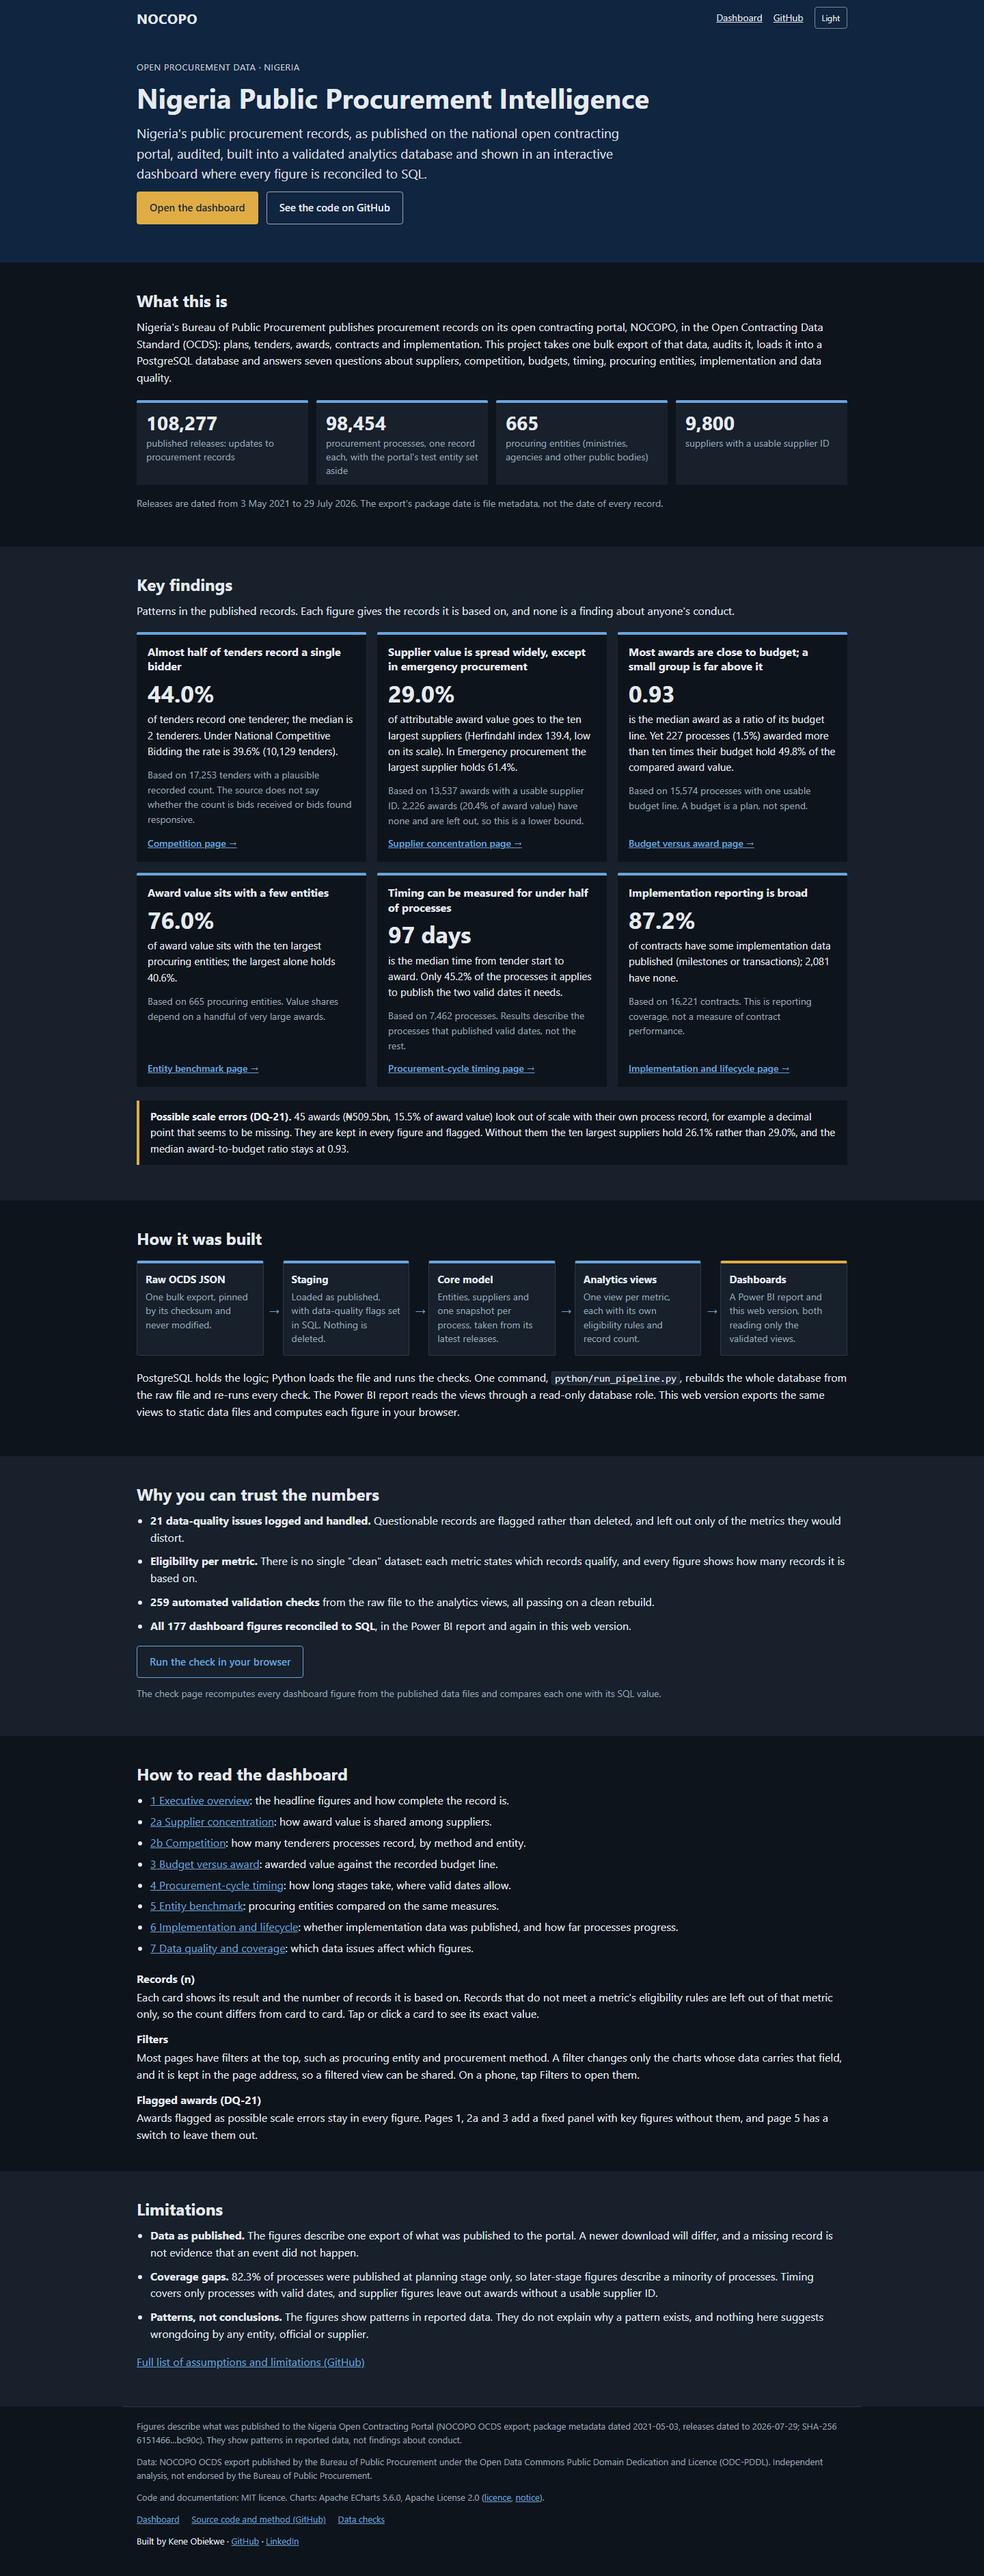
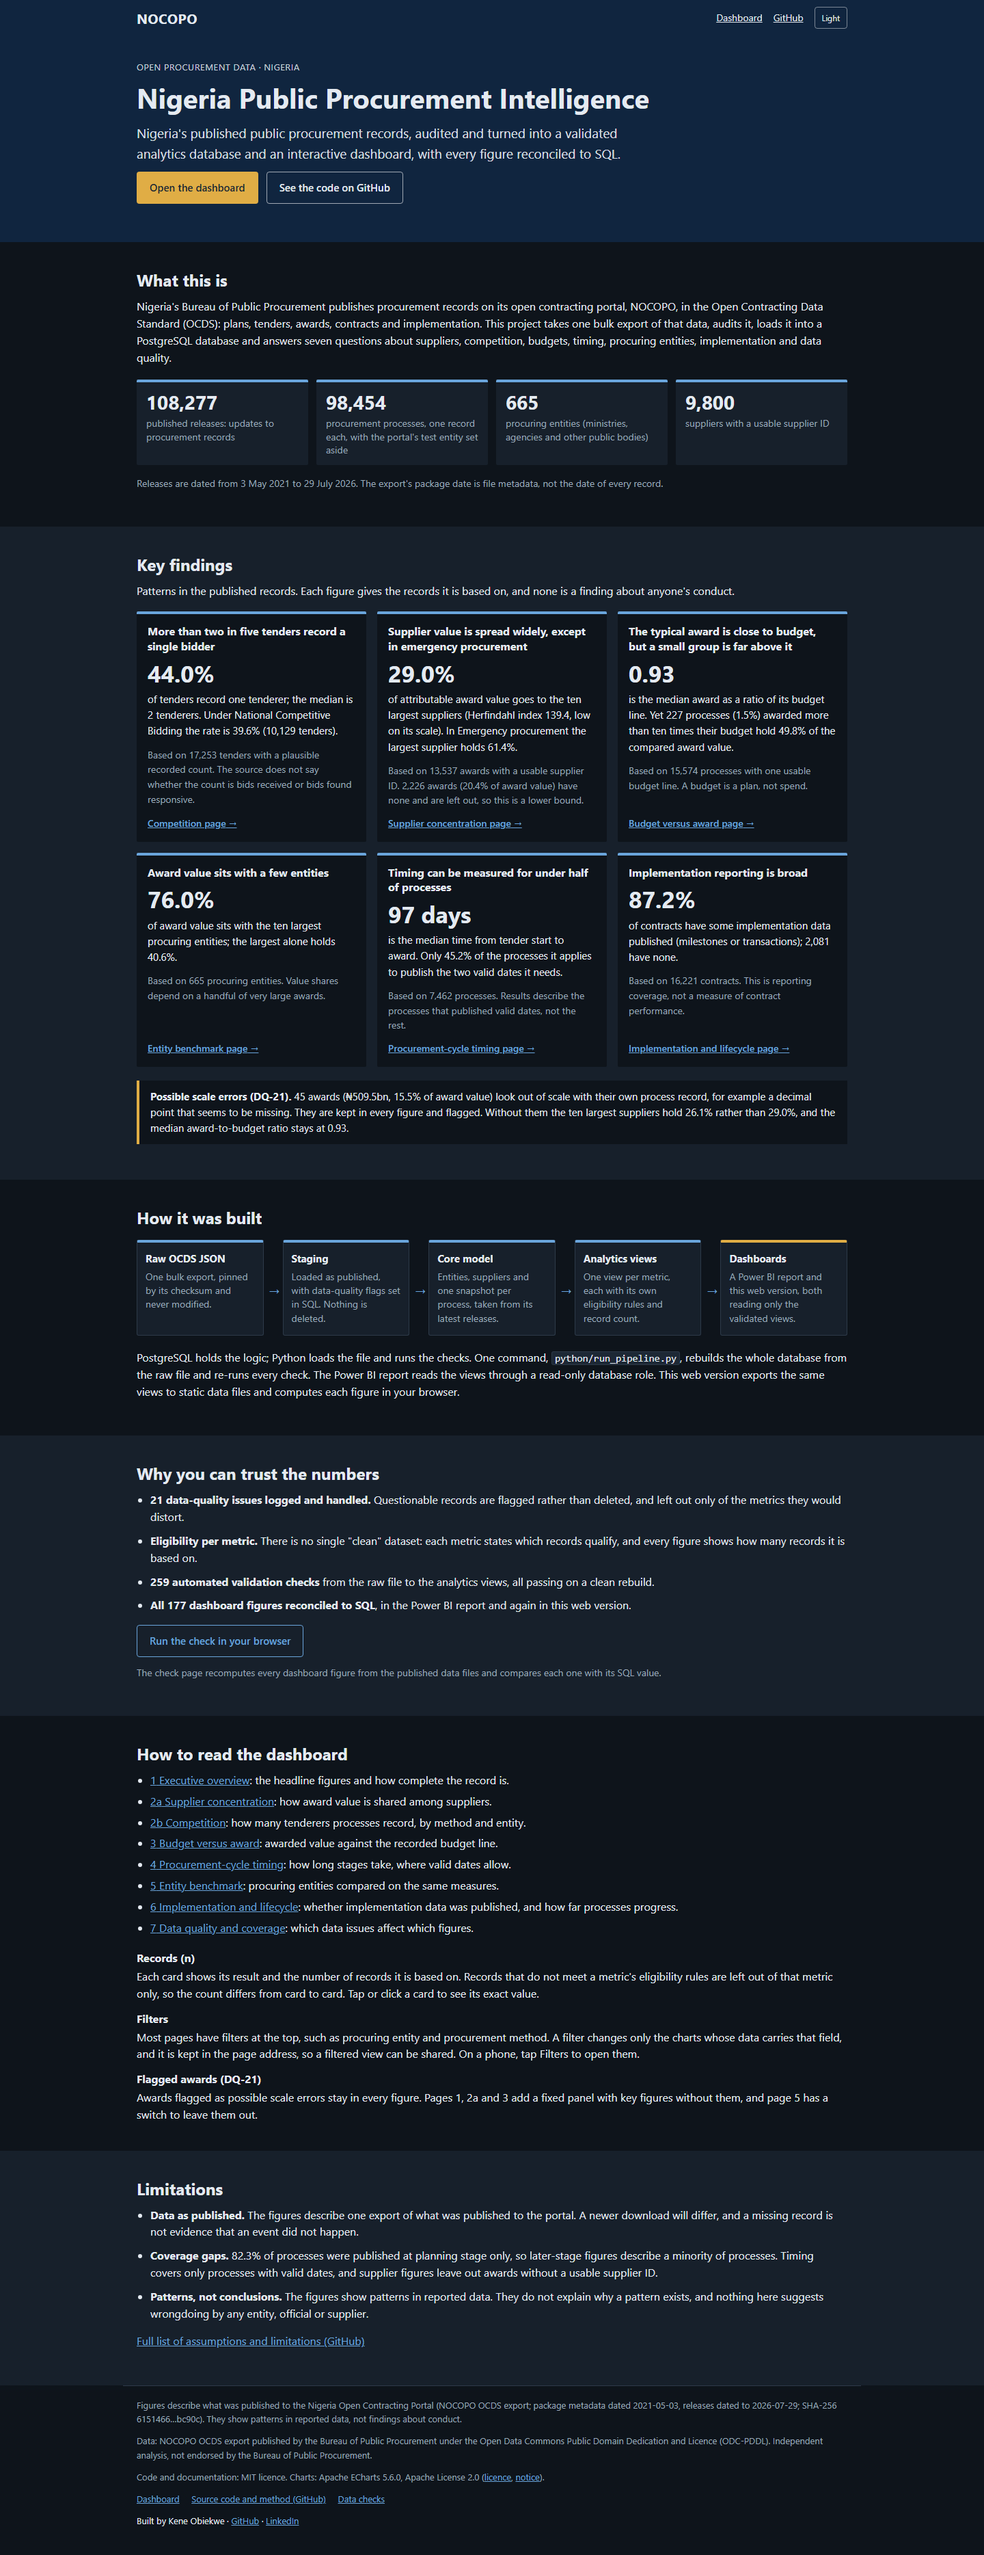
docs: reword two finding headlines (W-1, W-2), landing hero (W-3), LinkedIn link
- Findings 2 and 3 headlines now match the figures beneath them, in
  findings.md section 1, the README and the landing page: "More than two in
  five tenders record a single bidder" and "The typical award is close to
  budget, but a small group is far above it". Recorded as findings v1.2
  (wording only; no figure, tag or population changed).
- Landing hero sentence shortened; credit line links the LinkedIn profile.
- Landing screenshots retaken; check reports regenerated (177/177, 277/277,
  wording 0, landing figures 45/45, trace check 0 failures).

Changed region(s): [[0.125, 0.2173, 0.8438, 0.9625], [0.0, 0.031, 1.0, 0.1863], [0.75, 0.8694, 0.8125, 0.9004]]

diff --git a/web/index.html b/web/index.html
@@ -50,9 +50,8 @@
     <div class="wrap">
       <p class="eyebrow">Open procurement data · Nigeria</p>
       <h1>Nigeria Public Procurement Intelligence</h1>
-      <p class="lead">Nigeria's public procurement records, as published on the national open contracting portal, audited,
-        built into a validated analytics database and shown in an interactive dashboard where every figure is reconciled
-        to SQL.</p>
+      <p class="lead">Nigeria's published public procurement records, audited and turned into a validated analytics
+        database and an interactive dashboard, with every figure reconciled to SQL.</p>
       <p class="actions">
         <a class="button primary" href="dashboard.html">Open the dashboard</a>
         <a class="button secondary" href="https://github.com/kene-obiekwe/nigeria-public-procurement-intelligence" rel="noopener">See the code on GitHub</a>
@@ -90,7 +89,7 @@
         anyone's conduct.</p>
       <div class="findings">
         <article class="finding">
-          <h3>Almost half of tenders record a single bidder</h3>
+          <h3>More than two in five tenders record a single bidder</h3>
           <p class="big"><span data-fig="EXE-05" data-format="pct1">44.0%</span></p>
           <p>of tenders record one tenderer; the median is <span data-fig="EXE-06" data-format="count">2</span>
             tenderers. Under National Competitive Bidding the rate is <span data-claim="C3">39.6%</span>
@@ -112,7 +111,7 @@
           <a class="more" href="dashboard.html#suppliers">Supplier concentration page</a>
         </article>
         <article class="finding">
-          <h3>Most awards are close to budget; a small group is far above it</h3>
+          <h3>The typical award is close to budget, but a small group is far above it</h3>
           <p class="big"><span data-fig="EXE-09" data-format="ratio2">0.93</span></p>
           <p>is the median award as a ratio of its budget line. Yet <span data-fig="BVA-B6" data-format="count">227</span>
             processes (<span data-claim="B3">1.5%</span>) awarded more than ten times their budget hold
@@ -257,7 +256,7 @@
   </p>
   <p class="credit">Built by Kene Obiekwe ·
     <a href="https://github.com/kene-obiekwe" rel="noopener">GitHub</a> ·
-    <a href="LINKEDIN_URL" rel="noopener">LinkedIn</a></p>
+    <a href="https://www.linkedin.com/in/kene-obiekwe10" rel="noopener">LinkedIn</a></p>
 </footer>
 </body>
 </html>

diff --git a/docs/phase13_web_dashboard/web_reconciliation_results.md b/docs/phase13_web_dashboard/web_reconciliation_results.md
@@ -1,7 +1,7 @@
 # Web Dashboard Reconciliation Results
 # Nigeria Public Procurement Intelligence
 
-> **Generated:** 2026-10-31 16:00 by `python/web/check_web_data.py` (role `nocopo_bi`, read-only)  
+> **Generated:** 2026-10-31 16:07 by `python/web/check_web_data.py` (role `nocopo_bi`, read-only)  
 > **Data:** `web/data/` exported 2026-10-22T10:48:41Z by role `nocopo_bi` from `nocopo_db` (PostgreSQL 17.4); source SHA-256 `6151466…bc90c`  
 > **Result:** PASS: manifest verified; reconciliation 177/177 PASS; DQ-21 sensitivity 277/277 cells PASS; wording 0 finding(s); landing figures 45/45 PASS, 0 failure(s); routes PASS
 
@@ -561,53 +561,53 @@ Every figure on `web/index.html` and on `python/web/og_card.html` (drawn into `w
 
 | Where | Figure as written | Source | Source figure | Result |
 |---|---|---|---|---|
-| `web/index.html`:71 | 108,277 | source_verification.md §D, releases | 108,277 | PASS |
-| `web/index.html`:73 | 98,454 | expected.json EXE-01, count | 98,454 | PASS |
-| `web/index.html`:75 | 665 | expected.json ENT-01, count | 665 | PASS |
-| `web/index.html`:77 | 9,800 | expected.json SUP-02, count | 9,800 | PASS |
-| `web/index.html`:80 | 3 May 2021 | source_verification.md §D, earliest release date | 3 May 2021 | PASS |
-| `web/index.html`:81 | 29 July 2026 | source_verification.md §D, latest release date | 29 July 2026 | PASS |
-| `web/index.html`:94 | 44.0% | expected.json EXE-05, pct1 | 44.0% | PASS |
-| `web/index.html`:95 | 2 | expected.json EXE-06, count | 2 | PASS |
-| `web/index.html`:96 | 39.6% | claim_trace.md [C3] | 39.6% | PASS |
-| `web/index.html`:97 | 10,129 | claim_trace.md [C3] | 10,129 | PASS |
-| `web/index.html`:98 | 17,253 | expected.json COM-01, count | 17,253 | PASS |
-| `web/index.html`:104 | 29.0% | expected.json EXE-07, pct1 | 29.0% | PASS |
-| `web/index.html`:106 | 139.4 | expected.json SUP-09, index1 | 139.4 | PASS |
-| `web/index.html`:107 | 61.4% | claim_trace.md [S4] | 61.4% | PASS |
-| `web/index.html`:108 | 13,537 | expected.json SUP-01, count | 13,537 | PASS |
-| `web/index.html`:109 | 2,226 | expected.json SUP-11, count | 2,226 | PASS |
-| `web/index.html`:110 | 20.4% | expected.json SUP-13, pct1 | 20.4% | PASS |
-| `web/index.html`:116 | 0.93 | expected.json EXE-09, ratio2 | 0.93 | PASS |
-| `web/index.html`:117 | 227 | expected.json BVA-B6, count | 227 | PASS |
-| `web/index.html`:118 | 1.5% | claim_trace.md [B3] | 1.5% | PASS |
-| `web/index.html`:119 | 49.8% | claim_trace.md [B3] | 49.8% | PASS |
-| `web/index.html`:120 | 15,574 | expected.json BVA-01, count | 15,574 | PASS |
-| `web/index.html`:126 | 76.0% | expected.json ENT-06, pct1 | 76.0% | PASS |
-| `web/index.html`:128 | 40.6% | expected.json ENT-05, pct1 | 40.6% | PASS |
-| `web/index.html`:129 | 665 | expected.json ENT-01, count | 665 | PASS |
-| `web/index.html`:135 | 97 | expected.json EXE-11, days | 97 | PASS |
-| `web/index.html`:137 | 45.2% | expected.json TIM-11, pct1 | 45.2% | PASS |
-| `web/index.html`:139 | 7,462 | expected.json TIM-02, count | 7,462 | PASS |
-| `web/index.html`:145 | 87.2% | expected.json EXE-12, pct1 | 87.2% | PASS |
-| `web/index.html`:147 | 2,081 | expected.json IMP-T4, count | 2,081 | PASS |
-| `web/index.html`:148 | 16,221 | expected.json IMP-01, count | 16,221 | PASS |
-| `web/index.html`:153 | 45 | claim_trace.md [X1] | 45 awards | PASS |
-| `web/index.html`:154 | ₦509.5bn | claim_trace.md [X1] | ₦509.5bn | PASS |
-| `web/index.html`:154 | 15.5% | claim_trace.md [X1] | 15.5% | PASS |
-| `web/index.html`:156 | 26.1% | claim_trace.md [S6] | 26.1% | PASS |
-| `web/index.html`:157 | 29.0% | expected.json EXE-07, pct1 | 29.0% | PASS |
-| `web/index.html`:158 | 0.93 | claim_trace.md [B8] | 0.93 | PASS |
-| `web/index.html`:183 | 21 | decision log, DQ-01 to DQ-21 | 21 | PASS |
-| `web/index.html`:187 | 259 | the six suite result logs, Phases 5 to 10.1, all passed | 259 | PASS |
-| `web/index.html`:189 | 177 | figures in expected.json (the reconciliation pack) | 177 | PASS |
-| `web/index.html`:236 | 82.3% | expected.json EXE-13, pct1 | 82.3% | PASS |
+| `web/index.html`:70 | 108,277 | source_verification.md §D, releases | 108,277 | PASS |
+| `web/index.html`:72 | 98,454 | expected.json EXE-01, count | 98,454 | PASS |
+| `web/index.html`:74 | 665 | expected.json ENT-01, count | 665 | PASS |
+| `web/index.html`:76 | 9,800 | expected.json SUP-02, count | 9,800 | PASS |
+| `web/index.html`:79 | 3 May 2021 | source_verification.md §D, earliest release date | 3 May 2021 | PASS |
+| `web/index.html`:80 | 29 July 2026 | source_verification.md §D, latest release date | 29 July 2026 | PASS |
+| `web/index.html`:93 | 44.0% | expected.json EXE-05, pct1 | 44.0% | PASS |
+| `web/index.html`:94 | 2 | expected.json EXE-06, count | 2 | PASS |
+| `web/index.html`:95 | 39.6% | claim_trace.md [C3] | 39.6% | PASS |
+| `web/index.html`:96 | 10,129 | claim_trace.md [C3] | 10,129 | PASS |
+| `web/index.html`:97 | 17,253 | expected.json COM-01, count | 17,253 | PASS |
+| `web/index.html`:103 | 29.0% | expected.json EXE-07, pct1 | 29.0% | PASS |
+| `web/index.html`:105 | 139.4 | expected.json SUP-09, index1 | 139.4 | PASS |
+| `web/index.html`:106 | 61.4% | claim_trace.md [S4] | 61.4% | PASS |
+| `web/index.html`:107 | 13,537 | expected.json SUP-01, count | 13,537 | PASS |
+| `web/index.html`:108 | 2,226 | expected.json SUP-11, count | 2,226 | PASS |
+| `web/index.html`:109 | 20.4% | expected.json SUP-13, pct1 | 20.4% | PASS |
+| `web/index.html`:115 | 0.93 | expected.json EXE-09, ratio2 | 0.93 | PASS |
+| `web/index.html`:116 | 227 | expected.json BVA-B6, count | 227 | PASS |
+| `web/index.html`:117 | 1.5% | claim_trace.md [B3] | 1.5% | PASS |
+| `web/index.html`:118 | 49.8% | claim_trace.md [B3] | 49.8% | PASS |
+| `web/index.html`:119 | 15,574 | expected.json BVA-01, count | 15,574 | PASS |
+| `web/index.html`:125 | 76.0% | expected.json ENT-06, pct1 | 76.0% | PASS |
+| `web/index.html`:127 | 40.6% | expected.json ENT-05, pct1 | 40.6% | PASS |
+| `web/index.html`:128 | 665 | expected.json ENT-01, count | 665 | PASS |
+| `web/index.html`:134 | 97 | expected.json EXE-11, days | 97 | PASS |
+| `web/index.html`:136 | 45.2% | expected.json TIM-11, pct1 | 45.2% | PASS |
+| `web/index.html`:138 | 7,462 | expected.json TIM-02, count | 7,462 | PASS |
+| `web/index.html`:144 | 87.2% | expected.json EXE-12, pct1 | 87.2% | PASS |
+| `web/index.html`:146 | 2,081 | expected.json IMP-T4, count | 2,081 | PASS |
+| `web/index.html`:147 | 16,221 | expected.json IMP-01, count | 16,221 | PASS |
+| `web/index.html`:152 | 45 | claim_trace.md [X1] | 45 awards | PASS |
+| `web/index.html`:153 | ₦509.5bn | claim_trace.md [X1] | ₦509.5bn | PASS |
+| `web/index.html`:153 | 15.5% | claim_trace.md [X1] | 15.5% | PASS |
+| `web/index.html`:155 | 26.1% | claim_trace.md [S6] | 26.1% | PASS |
+| `web/index.html`:156 | 29.0% | expected.json EXE-07, pct1 | 29.0% | PASS |
+| `web/index.html`:157 | 0.93 | claim_trace.md [B8] | 0.93 | PASS |
+| `web/index.html`:182 | 21 | decision log, DQ-01 to DQ-21 | 21 | PASS |
+| `web/index.html`:186 | 259 | the six suite result logs, Phases 5 to 10.1, all passed | 259 | PASS |
+| `web/index.html`:188 | 177 | figures in expected.json (the reconciliation pack) | 177 | PASS |
+| `web/index.html`:235 | 82.3% | expected.json EXE-13, pct1 | 82.3% | PASS |
 | `python/web/og_card.html`:36 | 98,454 | expected.json EXE-01, count | 98,454 | PASS |
 | `python/web/og_card.html`:37 | 44.0% | expected.json EXE-05, pct1 | 44.0% | PASS |
 | `python/web/og_card.html`:38 | 177 | figures in expected.json (the reconciliation pack) | 177 | PASS |
 | `python/web/og_card.html`:38 | 177 | figures in expected.json (the reconciliation pack) | 177 | PASS |
 
-Labels marked `data-nofig` (page numbers and versions, not figures): `web/index.html`:204 1; `web/index.html`:205 2a; `web/index.html`:206 2b; `web/index.html`:207 3; `web/index.html`:208 4; `web/index.html`:209 5; `web/index.html`:210 6; `web/index.html`:211 7; `web/index.html`:223 1; `web/index.html`:224 2a; `web/index.html`:224 3; `web/index.html`:225 5; `web/index.html`:251 5.6.0; `web/index.html`:251 2.0.
+Labels marked `data-nofig` (page numbers and versions, not figures): `web/index.html`:203 1; `web/index.html`:204 2a; `web/index.html`:205 2b; `web/index.html`:206 3; `web/index.html`:207 4; `web/index.html`:208 5; `web/index.html`:209 6; `web/index.html`:210 7; `web/index.html`:222 1; `web/index.html`:223 2a; `web/index.html`:223 3; `web/index.html`:224 5; `web/index.html`:250 5.6.0; `web/index.html`:250 2.0.
 
 Routes: `web/js/route.js` forwards 8 dashboard page IDs from the landing page to `dashboard.html` (`#overview`, `#suppliers`, `#competition`, `#budget`, `#timing`, `#entities`, `#implementation`, `#data-quality`); they equal `web/js/text.js` PAGES, and every `dashboard.html#…` link on the site names one of them.
 

diff --git a/docs/phase10_findings/findings.md b/docs/phase10_findings/findings.md
@@ -14,6 +14,8 @@
 > **Phase 10.1 (2026-10-17):** corrections C-12 (release dates) and C-13 / DQ-21 (possible award scale errors,
 > flagged, not excluded) applied; headline value figures are shown with and without the flagged awards
 > ([`phase10_1_correction_pass.md`](phase10_1_correction_pass.md)).
+> **Wording correction (2026-10-31):** the headlines of findings 2 and 3 in §1 were reworded (W-1, W-2) so that they
+> match the figures beneath them; no figure, tag or population changed.
 
 ---
 
@@ -28,11 +30,11 @@ they are not conclusions about how any entity or supplier behaved (see §2).
    usable supplier ID. *Caveat:* 2,226 awards (₦670.4bn, 20.4% of eligible award value) have no usable supplier ID
    and are left out, so concentration is a lower bound. Without the awards flagged as possible scale errors (§10)
    the top ten hold 26.1% and the Emergency share is 55.3%, so the pattern holds. [S1] [S2] [S4] [S6]
-2. **Almost half of tenders record a single bidder.** 44.0% of tenders record one tenderer (median 2 tenderers).
+2. **More than two in five tenders record a single bidder.** 44.0% of tenders record one tenderer (median 2 tenderers).
    Even in National Competitive Bidding the rate is 39.6% across 10,129 tenders. *Population:* 17,253 tenders with
    a plausible recorded count (one to a hundred tenderers). *Caveat:* the count is what was published; the source
    does not define whether it counts bids received or bids found responsive. [C1] [C3]
-3. **Most processes are awarded close to budget, but a small group is far above it.** The median award is 0.93 of
+3. **The typical award is close to budget, but a small group is far above it.** The median award is 0.93 of
    its budget line and 42.2% of processes are awarded within a tenth of their budget. Yet 227 processes (1.5%) are
    awarded more than ten times their budget and hold 49.8% of the compared award value. Without the awards flagged as
    possible scale errors, 186 processes remain above ten times budget with 39.9% of the value, and the median stays at
@@ -414,5 +416,5 @@ None of these recommendations presumes a cause. Each one tests a pattern before 
 
 ---
 
-*Findings version 1.1 — 2026-10-17 (Phase 10.1: C-12, DQ-21 sensitivity). Version 1.0 — 2026-10-17.*
+*Findings version 1.2 — 2026-10-31 (wording correction W-1, W-2: the headlines of findings 2 and 3 in §1 now read "More than two in five tenders record a single bidder" (was "Almost half of tenders …") and "The typical award is close to budget, but a small group is far above it" (was "Most processes are awarded close to budget …", while 42.2% are within a tenth of budget and 34.0% below half of it [B2]); no figure changed). Version 1.1 — 2026-10-17 (Phase 10.1: C-12, DQ-21 sensitivity). Version 1.0 — 2026-10-17.*
 *Raw dataset not modified; no stg.* or core.* object changed; one analytics view added (DQ-21 flag).*

diff --git a/docs/phase10_findings/claim_trace_check_results.md b/docs/phase10_findings/claim_trace_check_results.md
@@ -1,7 +1,7 @@
 # Findings Claim-Trace Check (Gate D)
 # Nigeria Public Procurement Intelligence
 
-> **Generated:** 2026-10-18 09:53 by `python/validation/07_check_findings_trace.py` --live  
+> **Generated:** 2026-10-31 16:07 by `python/validation/07_check_findings_trace.py` --live  
 > **Checks:** `docs/phase10_findings/findings.md` against `docs/phase10_findings/claim_trace.md`, `docs/phase8_analysis/phase8_analysis_results.md` and the reconciliation pack  
 > **Result:** PASS
 
@@ -9,12 +9,12 @@
 |---|---|
 | Claim-trace rows verified against their source cell | 236 of 236 |
 | Claim tags | 44 |
-| Figures extracted from the findings | 299 |
+| Figures extracted from the findings | 301 |
 | Figures without a matching claim-trace row | 0 |
 | Claim-trace rows whose figure is not extracted from the findings text (verified, but not auto-located) | 16 |
 | Prohibited terms outside the disclaimer section | 0 |
 | Tagged figures in the README and portfolio documents (6 files) matched to claim-trace rows | 69 of 69 |
-| Reconciliation pack re-run against the database | run 2026-10-18 09:53: 177 figures returned; 8 cited figures compared, 0 mismatches |
+| Reconciliation pack re-run against the database | run 2026-10-31 16:07: 177 figures returned; 8 cited figures compared, 0 mismatches |
 
 ## Rows verified but not auto-located in the text
 

diff --git a/README.md b/README.md
@@ -29,10 +29,10 @@ recommendations: [`findings.md`](docs/phase10_findings/findings.md).
   61.4%, and still 55.3% without the awards flagged as possible scale errors. *Population:* 13,537 awards.
   *Caveat:* 2,226 awards (₦670.4bn, 20.4% of eligible award value) have no usable supplier ID, so concentration is
   a lower bound. [S1] [S2] [S4] [S6]
-- **Almost half of tenders record a single bidder.** 44.0% of 17,253 tenders record one tenderer, and 39.6% of
+- **More than two in five tenders record a single bidder.** 44.0% of 17,253 tenders record one tenderer, and 39.6% of
   10,129 tenders under National Competitive Bidding. *Caveat:* the source does not define what the tenderer count
   counts. [C1] [C3]
-- **Most processes are awarded close to budget, but a small group far above it holds much of the value.** The median
+- **The typical award is close to budget, but a small group is far above it.** The median
   award is 0.93 of its budget across 15,574 processes, yet 227 processes (1.5%) above ten times budget hold 49.8% of
   the compared award value (39.9% without the flagged awards). *Caveat:* a budget is a plan, not spend. [B1] [B3] [B8]
 - **Timing is measurable for under half of processes.** The median award lag is 97 days, but only 45.2% of candidate

diff --git a/docs/phase13_web_dashboard/web_dashboard.md b/docs/phase13_web_dashboard/web_dashboard.md
@@ -213,5 +213,4 @@ Inspector (<https://www.linkedin.com/post-inspector/>) to refresh it. After chan
 python python/web/make_og_image.py
 ```
 
-**Placeholder.** The credit line links LinkedIn as `LINKEDIN_URL`; replace it in `web/index.html` with the profile address
-before deploying.
+**Credit line.** "Built by Kene Obiekwe", with links to GitHub and LinkedIn (decision L-4).
